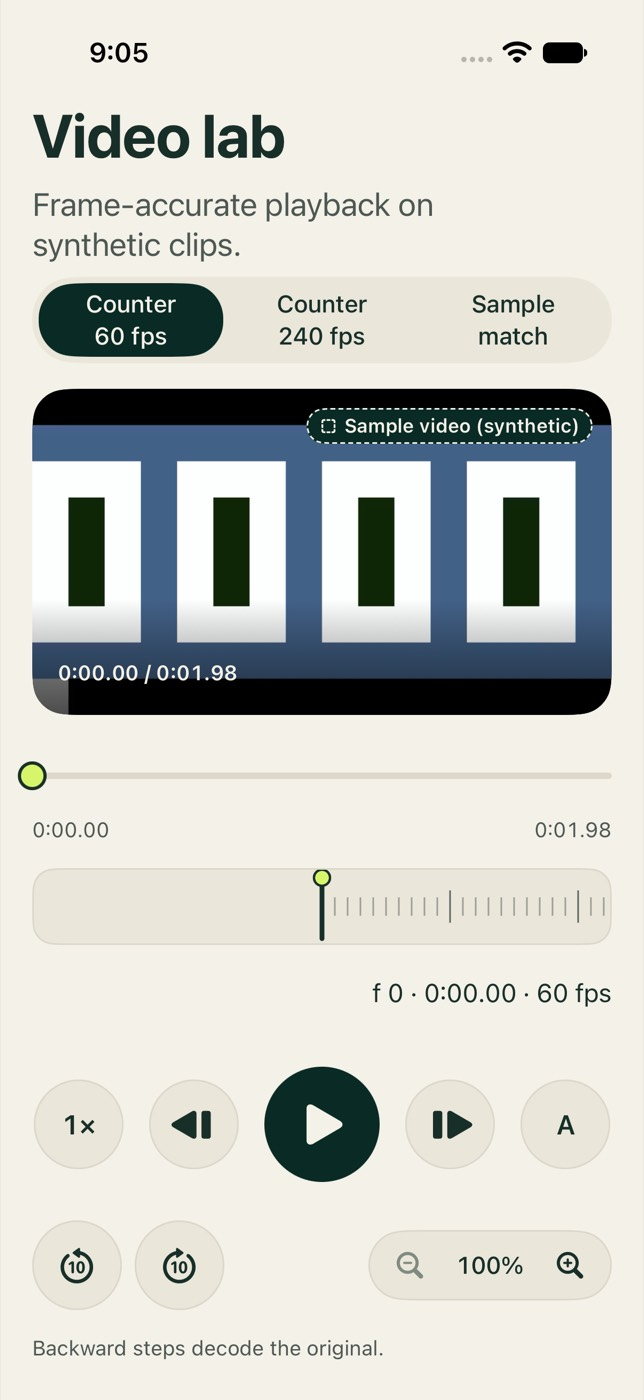
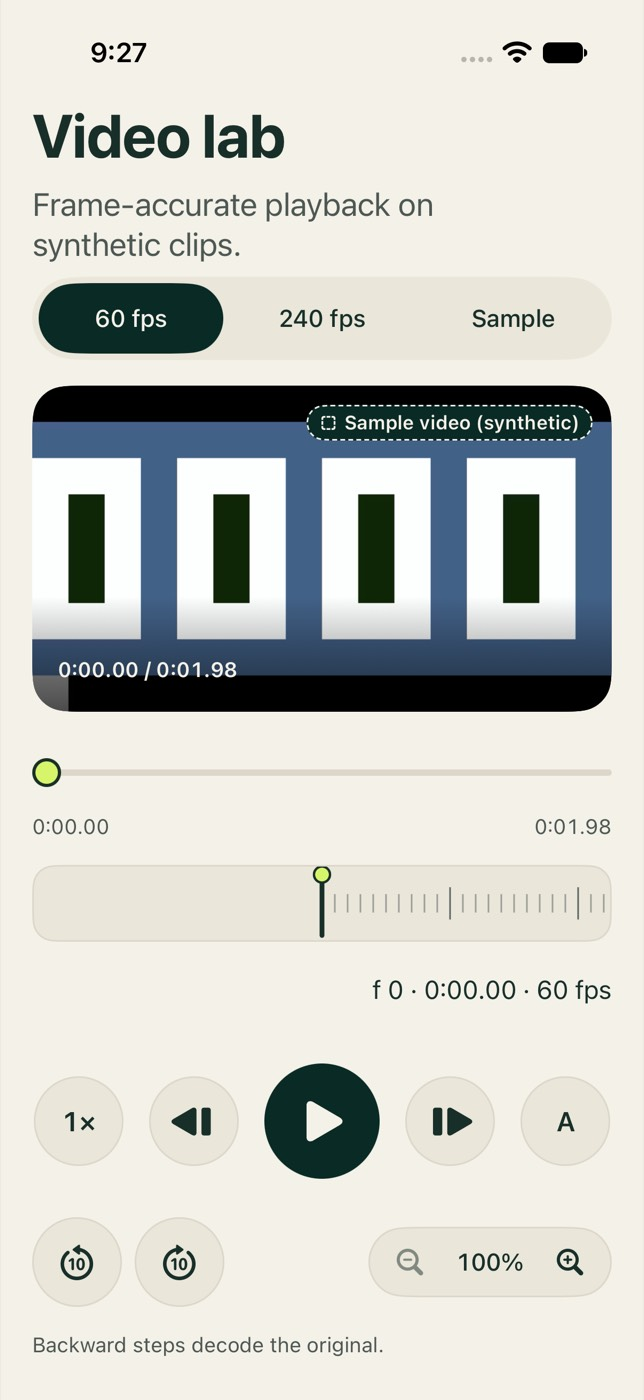
feat(T14): landscape panel without scrolling, thumb inside the track, fresh evidence
- VideoLab landscape (screens.md S10): in short height the large title and subtitle give way to a
  headline-size title, so the timeline, jog strip, readout and the frame-step/play row are on screen
  without scrolling. The panel's scroll view runs to the trailing edge with the margin inside its
  content, so its indicator no longer sits over the timeline and jog strip. Source pills read
  "60 fps", "240 fps", "Sample" and fit one line.
- PlaybackTimeline: the 18 pt thumb travels inside the track (inset by its radius), so at the first
  and last frame it lines up with the content margin; touches map back through the same inset.
- Tests: TimelineThumbTravelTests (hosted, 4) and
  PlaybackCoreUITests.testLandscapeShowsTimelineJogAndTransportWithoutScrolling.
- Evidence re-run on the branch merged with main 083c866: JovraMedia swift test, hosted JovraTests
  19/19, UI 17/17 on JOVRA-T14, and every screenshot.

diff --git a/ios/Jovra/DesignSystem/Video/VideoLab.swift b/ios/Jovra/DesignSystem/Video/VideoLab.swift
@@ -15,10 +15,10 @@ struct VideoLab: View {
 
         var title: String {
             switch self {
-            case .fc060: "Counter 60 fps"
-            case .fc240: "Counter 240 fps"
-            case .sample: "Sample match"
-            case .missing: "Missing file"
+            case .fc060: "60 fps"
+            case .fc240: "240 fps"
+            case .sample: "Sample"
+            case .missing: "Missing"
             }
         }
 
@@ -95,25 +95,44 @@ struct VideoLab: View {
                     header
                     controls
                 }
+                .padding(.top, Space.x2)
                 .padding(.bottom, Space.x4)
+                .padding(.trailing, Space.screenMargin)
             }
-            .frame(width: 300)
+            // The scroll view runs to the trailing edge and keeps the margin inside its content, so its indicator sits
+            // in the margin instead of over the timeline and jog strip.
+            .frame(width: Self.landscapePanelWidth + Space.screenMargin)
             .accessibilityIdentifier("videoLab.scroll")
         }
-        .padding(.horizontal, Space.screenMargin)
+        .padding(.leading, Space.screenMargin)
     }
 
+    /// screens.md S10: in iPhone landscape a trailing 300 pt panel holds the timeline, jog strip and transport.
+    private static let landscapePanelWidth: CGFloat = 300
+
+    /// The large title and its subtitle belong to regular height. When height is short they are dropped first
+    /// (screens.md S10 §1), so the timeline, jog strip and transport row are on screen without scrolling.
     private var header: some View {
-        VStack(alignment: .leading, spacing: Space.x1) {
-            Text("Video lab")
-                .jovraDisplayTitle()
-                .fixedSize(horizontal: false, vertical: true)
-                .accessibilityAddTraits(.isHeader)
-                .accessibilityIdentifier("screen.title")
-            Text("Frame-accurate playback on synthetic clips.")
-                .font(.jovraSubtitle)
-                .foregroundStyle(.jovra(.textSecondary))
-                .fixedSize(horizontal: false, vertical: true)
+        let isCompact = verticalSizeClass == .compact
+        return VStack(alignment: .leading, spacing: Space.x1) {
+            Group {
+                if isCompact {
+                    Text("Video lab")
+                        .font(.jovraHeadline)
+                        .foregroundStyle(.jovra(.textPrimary))
+                } else {
+                    Text("Video lab").jovraDisplayTitle()
+                }
+            }
+            .fixedSize(horizontal: false, vertical: true)
+            .accessibilityAddTraits(.isHeader)
+            .accessibilityIdentifier("screen.title")
+            if !isCompact {
+                Text("Frame-accurate playback on synthetic clips.")
+                    .font(.jovraSubtitle)
+                    .foregroundStyle(.jovra(.textSecondary))
+                    .fixedSize(horizontal: false, vertical: true)
+            }
             if source != .missing {
                 FilterPills(options: [Source.fc060, .fc240, .sample], selection: $source) { $0.title }
                     .accessibilityIdentifier("videoLab.sources")

diff --git a/ios/JovraTests/DesignSystem/VideoPlaybackComponentTests.swift b/ios/JovraTests/DesignSystem/VideoPlaybackComponentTests.swift
@@ -90,6 +90,51 @@ struct FrameReadoutFormatTests {
     }
 }
 
+/// The timeline's thumb is drawn inside the track, so at the first and last frame it lines up with the content
+/// margin instead of hanging over it (or being cut by a scroll view's edge), and a touch maps to the frame
+/// whose thumb is under the finger.
+@Suite("Timeline thumb travel")
+struct TimelineThumbTravelTests {
+    /// A 402 pt iPhone with 20 pt margins and the 18 pt thumb.
+    let width: CGFloat = 362
+    let inset: CGFloat = 9
+
+    @Test
+    func theThumbStaysInsideTheTrackAtBothEnds() {
+        #expect(TimelineScrubInteraction.thumbCentre(frame: 0, frameCount: 120, width: width, inset: inset) == 9)
+        #expect(TimelineScrubInteraction.thumbCentre(frame: 119, frameCount: 120, width: width, inset: inset) == 353)
+        #expect(TimelineScrubInteraction.thumbCentre(frame: 0, frameCount: 1, width: width, inset: inset) == 9,
+                "a single-frame clip rests at the start")
+        #expect(TimelineScrubInteraction.thumbCentre(frame: 500, frameCount: 120, width: width, inset: inset) == 353,
+                "a frame past the end never leaves the track")
+    }
+
+    @Test(arguments: [2, 120, 480, 194_400])
+    func aTouchOnTheThumbSelectsTheFrameTheThumbShows(frameCount: Int) {
+        for frame in Set([0, 1, frameCount / 3, frameCount / 2, frameCount - 2, frameCount - 1]) where frame >= 0 {
+            let centre = TimelineScrubInteraction.thumbCentre(frame: frame, frameCount: frameCount, width: width, inset: inset)
+            #expect(TimelineScrubInteraction.frame(at: centre, width: width, frameCount: frameCount, inset: inset) == frame)
+        }
+    }
+
+    @Test
+    func theMarginsBesideTheTravelSelectTheEnds() {
+        #expect(TimelineScrubInteraction.frame(at: 0, width: width, frameCount: 120, inset: inset) == 0)
+        #expect(TimelineScrubInteraction.frame(at: 4, width: width, frameCount: 120, inset: inset) == 0)
+        #expect(TimelineScrubInteraction.frame(at: 362, width: width, frameCount: 120, inset: inset) == 119)
+        // Half-way along the travel is the middle frame: (181 - 9) / 344 × 119 = 59.5, rounded away from zero.
+        #expect(TimelineScrubInteraction.frame(at: 181, width: width, frameCount: 120, inset: inset) == 60)
+        // Without an inset the mapping is unchanged.
+        #expect(TimelineScrubInteraction.frame(at: 90.5, width: width, frameCount: 120) == 30)
+    }
+
+    @Test
+    func aTrackNarrowerThanItsThumbFallsBackToTheWholeWidth() {
+        #expect(TimelineScrubInteraction.frame(at: 6, width: 12, frameCount: 3, inset: inset) == 1)
+        #expect(TimelineScrubInteraction.thumbCentre(frame: 2, frameCount: 3, width: 12, inset: inset) == 12)
+    }
+}
+
 /// The jog strip is the element VoiceOver focuses; an accessibility increment on it (what a VoiceOver swipe up
 /// sends) must move the real player exactly one frame and the readout must say so. XCUITest cannot send an
 /// adjustable increment on iOS, so this drives the app's own accessibility tree in the hosted test.

diff --git a/ios/Jovra/DesignSystem/Video/TimelineScrubInteraction.swift b/ios/Jovra/DesignSystem/Video/TimelineScrubInteraction.swift
@@ -8,15 +8,15 @@ struct TimelineScrubInteraction {
         translation.x.isFinite && translation.y.isFinite && abs(translation.x) > abs(translation.y)
     }
 
-    mutating func change(x: CGFloat, width: CGFloat, frameCount: Int) -> Int? {
-        guard let target = Self.frame(at: x, width: width, frameCount: frameCount) else { return nil }
+    mutating func change(x: CGFloat, width: CGFloat, frameCount: Int, inset: CGFloat = 0) -> Int? {
+        guard let target = Self.frame(at: x, width: width, frameCount: frameCount, inset: inset) else { return nil }
         lastFrame = target
         return target
     }
 
-    mutating func end(x: CGFloat, width: CGFloat, frameCount: Int) -> Int? {
+    mutating func end(x: CGFloat, width: CGFloat, frameCount: Int, inset: CGFloat = 0) -> Int? {
         guard let previous = cancel() else { return nil }
-        return Self.frame(at: x, width: width, frameCount: frameCount) ?? previous
+        return Self.frame(at: x, width: width, frameCount: frameCount, inset: inset) ?? previous
     }
 
     /// An interrupted pan lands exactly at its last coarse target and relinquishes it immediately.
@@ -26,11 +26,27 @@ struct TimelineScrubInteraction {
         return lastFrame
     }
 
-    static func frame(at x: CGFloat, width: CGFloat, frameCount: Int) -> Int? {
+    /// The frame under a touch at `x`. `inset` is the thumb's radius: the thumb travels between `inset` and
+    /// `width - inset`, and the margins beside that travel select the first and last frame.
+    static func frame(at x: CGFloat, width: CGFloat, frameCount: Int, inset: CGFloat = 0) -> Int? {
         guard width.isFinite, width > 0, x.isFinite, frameCount > 0 else { return nil }
         let last = frameCount - 1
-        let progress = min(max(x / width, 0), 1)
+        let inset = usableInset(inset, width: width)
+        let progress = min(max((x - inset) / (width - 2 * inset), 0), 1)
         return Int(exactly: (progress * CGFloat(last)).rounded()) ?? last
+    }
+
+    /// Where the thumb's centre is drawn for `frame`: the inverse of `frame(at:width:frameCount:inset:)`.
+    static func thumbCentre(frame: Int, frameCount: Int, width: CGFloat, inset: CGFloat = 0) -> CGFloat {
+        let inset = usableInset(inset, width: width)
+        let last = max(frameCount - 1, 0)
+        let progress = last > 0 ? CGFloat(min(max(frame, 0), last)) / CGFloat(last) : 0
+        return inset + progress * (width - 2 * inset)
+    }
+
+    /// A track too narrow to hold its thumb uses its whole width.
+    private static func usableInset(_ inset: CGFloat, width: CGFloat) -> CGFloat {
+        inset.isFinite && inset > 0 && width > 2 * inset ? inset : 0
     }
 
     static func adjustedFrame(_ frame: Int, increasing: Bool, frameCount: Int) -> Int? {

diff --git a/ios/Jovra/DesignSystem/Video/PlaybackTimeline.swift b/ios/Jovra/DesignSystem/Video/PlaybackTimeline.swift
@@ -11,29 +11,32 @@ struct PlaybackTimeline: View {
     var onScrub: (Int) -> Void
     var onScrubEnded: (Int) -> Void
 
-    private var progress: CGFloat {
-        frameCount > 1 ? CGFloat(frame) / CGFloat(frameCount - 1) : 0
-    }
+    /// The thumb is 18 pt across and stays inside the track, so at either end it lines up with the content margin.
+    static let thumbDiameter: CGFloat = 18
+    static let trackHeight: CGFloat = 4
 
     var body: some View {
         VStack(spacing: Space.half) {
             GeometryReader { proxy in
                 let width = proxy.size.width
+                let radius = Self.thumbDiameter / 2
+                let centre = TimelineScrubInteraction.thumbCentre(frame: frame, frameCount: frameCount, width: width, inset: radius)
                 ZStack(alignment: .leading) {
-                    Capsule().fill(Color.jovra(.separator)).frame(height: 4)
-                    Capsule().fill(Color.jovra(.textPrimary)).frame(width: max(4, width * progress), height: 4)
+                    Capsule().fill(Color.jovra(.separator)).frame(height: Self.trackHeight)
+                    Capsule().fill(Color.jovra(.textPrimary)).frame(width: max(Self.trackHeight, centre), height: Self.trackHeight)
                     Circle()
                         .fill(Color.jovra(.accent))
                         .overlay(Circle().strokeBorder(Color.jovra(.textPrimary), lineWidth: 2))
-                        .frame(width: 18, height: 18)
-                        .offset(x: width * progress - 9)
+                        .frame(width: Self.thumbDiameter, height: Self.thumbDiameter)
+                        .offset(x: centre - radius)
                 }
                 .frame(maxHeight: .infinity)
                 .contentShape(Rectangle())
-                .gesture(TimelinePanGesture(width: width, frameCount: frameCount,
+                .gesture(TimelinePanGesture(width: width, frameCount: frameCount, inset: radius,
                                             onScrub: onScrub, onScrubEnded: onScrubEnded))
                 .simultaneousGesture(SpatialTapGesture().onEnded { value in
-                    if let target = TimelineScrubInteraction.frame(at: value.location.x, width: width, frameCount: frameCount) {
+                    if let target = TimelineScrubInteraction.frame(at: value.location.x, width: width,
+                                                                   frameCount: frameCount, inset: radius) {
                         onScrubEnded(target)
                     }
                 })

diff --git a/ios/JovraUITests/Playback/PlaybackCoreUITests.swift b/ios/JovraUITests/Playback/PlaybackCoreUITests.swift
@@ -128,6 +128,33 @@ final class PlaybackCoreUITests: XCTestCase {
         XCTAssertTrue((86...92).contains(dragged), "three quarters of the fixture: \(dragged)")
     }
 
+    /// iPhone landscape (screens.md S10): the video leads and the trailing 300 pt panel shows the timeline, the jog
+    /// strip and the frame-step and play buttons without scrolling at the default text size. Five discs do not fit
+    /// 300 pt, so the rate and the fifth slot wrap to a second row that the panel scrolls to.
+    @MainActor
+    func testLandscapeShowsTimelineJogAndTransportWithoutScrolling() throws {
+        let app = launchLab()
+        XCTAssertTrue(element(app, "playback.jog").waitForExistence(timeout: 10))
+        XCUIDevice.shared.orientation = .landscapeLeft
+        let window = app.windows.firstMatch
+        let video = element(app, "video.surface"), timeline = element(app, "playback.timeline")
+        let jog = element(app, "playback.jog"), play = element(app, "transport.playPause")
+        let laidOut = NSPredicate { _, _ in window.frame.width > window.frame.height && jog.frame.minX > video.frame.maxX }
+        _ = XCTWaiter.wait(for: [XCTNSPredicateExpectation(predicate: laidOut, object: nil)], timeout: 8)
+        XCTAssertGreaterThan(window.frame.width, window.frame.height, "the app rotated")
+        XCTAssertGreaterThanOrEqual(element(app, "screen.title").frame.minY, window.frame.minY + 12, "the title clears the top edge")
+        XCTAssertGreaterThan(timeline.frame.minX, video.frame.maxX, "the timeline is in the trailing panel")
+        XCTAssertGreaterThanOrEqual(jog.frame.minY - timeline.frame.maxY, 16)
+        for id in ["playback.readout", "transport.previousFrame", "transport.playPause", "transport.nextFrame"] {
+            let frame = element(app, id).frame
+            XCTAssertLessThanOrEqual(frame.maxY, window.frame.maxY, "\(id) at \(frame) is on screen without scrolling")
+        }
+        XCTAssertTrue(play.isHittable)
+        play.tap()
+        XCTAssertTrue(play.wait(for: \.label, toEqual: "Pause", timeout: 3), "the transport works where it stands")
+        play.tap()
+    }
+
     // MARK: Keyboard
 
     @MainActor

diff --git a/ios/Jovra/DesignSystem/Video/TimelinePanGesture.swift b/ios/Jovra/DesignSystem/Video/TimelinePanGesture.swift
@@ -5,6 +5,8 @@ import UIKit
 struct TimelinePanGesture: UIGestureRecognizerRepresentable {
     let width: CGFloat
     let frameCount: Int
+    /// The thumb's radius (see `TimelineScrubInteraction.frame(at:width:frameCount:inset:)`).
+    var inset: CGFloat = 0
     let onScrub: (Int) -> Void
     let onScrubEnded: (Int) -> Void
 
@@ -37,12 +39,12 @@ struct TimelinePanGesture: UIGestureRecognizerRepresentable {
             fallthrough
         case .changed:
             if let target = coordinator.interaction.change(x: context.converter.localLocation.x,
-                                                            width: width, frameCount: frameCount) {
+                                                            width: width, frameCount: frameCount, inset: inset) {
                 onScrub(target)
             }
         case .ended:
             if let target = coordinator.interaction.end(x: context.converter.localLocation.x,
-                                                         width: width, frameCount: frameCount) {
+                                                         width: width, frameCount: frameCount, inset: inset) {
                 onScrubEnded(target)
             }
         case .cancelled, .failed:

diff --git a/evidence/ios/14-playback-core/README.md b/evidence/ios/14-playback-core/README.md
@@ -1,13 +1,13 @@
 # T14 playback core: evidence
 
-All runs were on 2026-11-08, on the build Mac. The simulator was JOVRA-T14 (`B7D403BE-869C-4F1D-B84F-0CBF0006402F`), an iPhone 17 Pro on iOS Simulator 27.2. No physical device was used.
+The first runs were on 2026-11-08; the green results (02, 04, 05) and every screenshot were re-run on 2026-11-19 on the branch merged with main 083c866, on the build Mac. The simulator was JOVRA-T14 (`B7D403BE-869C-4F1D-B84F-0CBF0006402F`), an iPhone 17 Pro on iOS Simulator 27.2. No physical device was used.
 
 | File | What it shows |
 |---|---|
 | `01-red-missing-api.txt` | Red run. The tests were written first, so the playback API they call did not exist yet. |
 | `03-red-proxy-timescale.txt` | Red run caught by the timing gate. The first proxy decoded frame 469 as frame 468 (a timescale rounding bug), and that run is kept here with its fix. |
 | `02-jovramedia-green.txt` | Green run of `swift test --package-path ios/Packages/JovraMedia --no-parallel`, after `render.py --check` passed. It includes 100 seeded seek and step targets per fixture, checked at 60 and 240 fps by reading the frame code on the displayed decoded frame. It also covers the A–B loop wraps, the proxy, and the XCTClockMetric timing. |
-| `04-ui-tests.txt` | `scripts/ios/ui-test.sh` summary for `PlaybackCoreUITests` (9 tests). It also covers the regression classes `CoreComponentsUITests` (4) and `ReplayFlowUITests` (1). |
+| `04-ui-tests.txt` | `scripts/ios/ui-test.sh` summary for `PlaybackCoreUITests` (12 tests). It also covers the regression classes `CoreComponentsUITests` (4) and `ReplayFlowUITests` (1). |
 | `05-hosted-tests.txt` | Hosted `JovraTests` results. One test sends a VoiceOver accessibility increment to the jog strip and checks that the real player and the readout move exactly one frame. |
 | `s10-*.jpg`, `reviews.txt` | Screenshots of the video lab in light, dark and AX5, portrait and landscape, plus the half-rate, zoom, missing-file and sample states. `reviews.txt` reviews each one against `design-reference/screens/10-smart-replay.png`. |
 | `t12-*-badges.jpg` | Regression screenshots for the shared `SampleBadge`, which this ticket changed so it can take a custom caption. |
